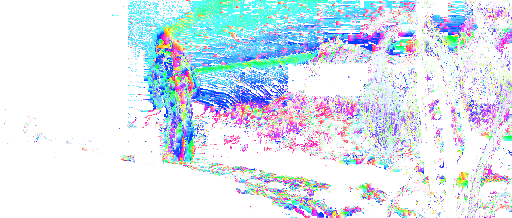
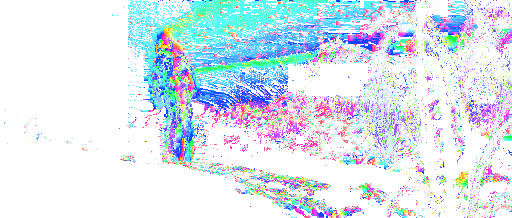
Update readme for the subpixel branch

diff --git a/README.md b/README.md
@@ -2,20 +2,20 @@
 *An optical flowmap generator from motion vectors using a Full Search Block Matching Algorithms (FSBMA) written in c++*
 
 **Features:**
-- MSE based motion compensation on the luma chanel **only** (input images are converted from full sRGB to YUV BT.601)
+- SAD based motion compensation on the luma chanel **only** (input images are converted from full sRGB to YUV BT.601)
+- **New:** Bilinear subpixel motion compensation !
 - Two visualization mode for computed motion vectors:
     - **HSV** mode where hue encodes orientation and value encodes normalized norm relative to the maximum displacement
     - **UV** mode where the red and green channels encode horizontal and vertical displacement
-- Luma residue visualization
-- Parallel processing: Block search and pixels transforms use all available cpu cores
+- Luma, residue and prediction visualization
+- **Reasonably fast**: Block search and pixels transforms use all available cpu cores
 
-> ℹ Current implementation doesn't support subpixel motion.
+<details>
 
-<details open>
+<summary>Video demo </summary>
 
-<summary>Video demo</summary>
-
-[![YT demo](http://img.youtube.com/vi/JUaUOEDbU1Y/0.jpg)](https://www.youtube.com/watch?v=JUaUOEDbU1Y)
+- **Badapple but its a block matched motion compensation !** (before the 2026/03/09 update)
+    [![YT demo](http://img.youtube.com/vi/JUaUOEDbU1Y/0.jpg)](https://www.youtube.com/watch?v=JUaUOEDbU1Y)
 
 </details>
 
@@ -32,24 +32,23 @@ Use `tinybma -h` to display program help.
 
 ### Example
 ```bash
-tinybma ./example/sintel_source.png ./example/sintel_target.png ./example/flowmap_b4_m16.png -v -b 4 -m 16 -l -r -c hsv
+tinybma ./example/sintel_source.png ./example/sintel_target.png ./example/flowmap_b4_m16.png -v -b 4 -m 16 -l -r -p -s 1 -c hsv 
 ```
 
 Which produces the following optical flowmap and residue based on two frames from The Blender open movie project [Sintel](https://durian.blender.org/):
 
 <p align="center">
-    <img src="./example/flowmap_b4_m16.png" width="50%" /><img src="./example/flowmap_b4_m16_residue.png" width="50%" />
-    1/4 optical flowmap with max axial movement of 16px (left) and its residual residual image (right)
-</p>
-
-<p align="center">
-    <img src="./example/flowmap_b4_m16_luma_ref.png" width="50%" /><img src="./example/flowmap_b4_m16_luma_target.png" width="50%" />
-    Luma reference frame (left) and luma target frame (right)
-</p>
-
-<p align="center">
     <img src="./example/sintel_source.png" width="50%" /><img src="./example/sintel_target.png" width="50%" />
     Original reference frame (left) and original target frame (right)
+</p>
+
+<p align="center">
+    <img src="./example/flowmap_b4_m16.png" width="50%" /><img src="./example/flowmap_b4_m16_residue.png" width="50%" />
+    1/4 optical flowmap with max search of 16px + 1 subpixel (left) and its residual residual image (right)
+</p>
+<p align="center">
+    <img src="./example/flowmap_b4_m16_prediction.png" width="100%" /><br/>
+    Predicted luma frame from computed motion vectors and residue
 </p>
 
 
@@ -59,3 +58,11 @@ Which produces the following optical flowmap and residue based on two frames fro
 |-------|------|-----------------------------------------------------------------------------------------------------------------------|
 |Option | `--colormap hsv` or `-c hsv`      | `--colormap uv` or `-c uv`             |
 |Result| <img src="./example/flowmap_b4_m16.png" width="100%" /> | <img src="./example/flowmap_b4_m16_uv.png" width="100%" />  |
+
+## Changelogs
+
+- **2026/03/09**
+    - Added prediction frame visualisation
+    - Fixed residue visualisation, now negative values were campled to 0
+    - Added subpixel motion based on bilinear upsampling after whole pixel motion
+    - Switched search metric from MSE to SAD
